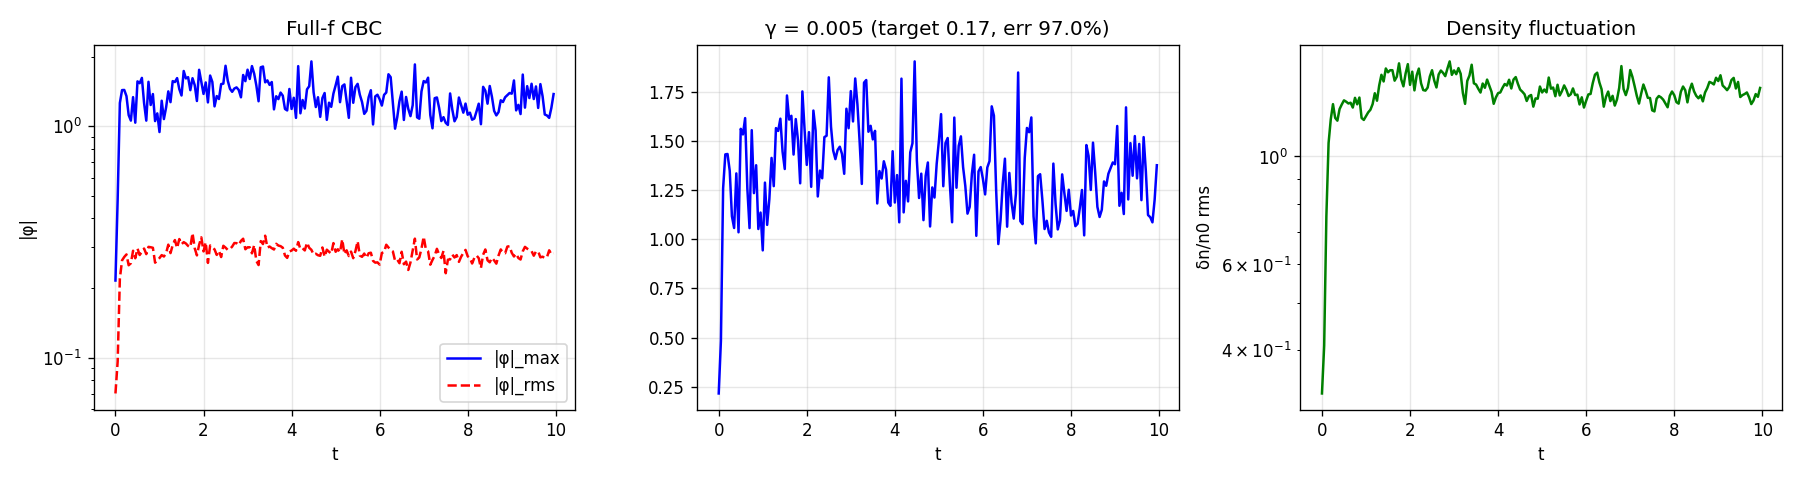
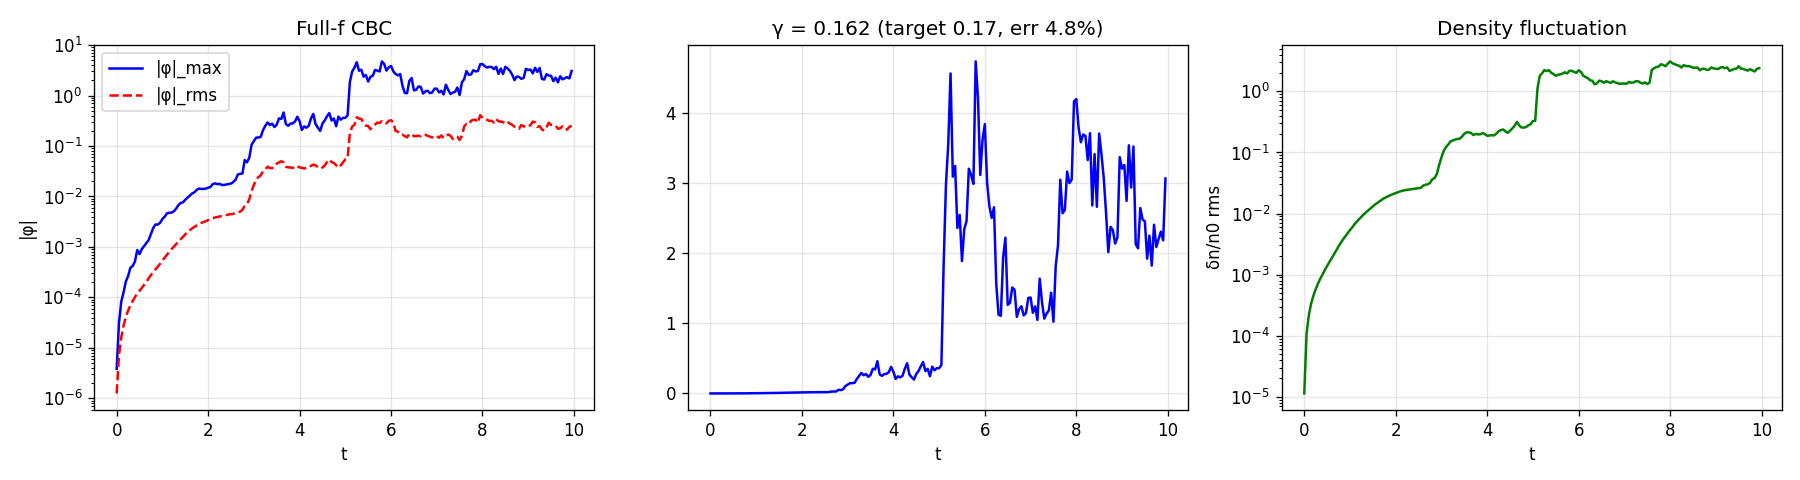
fix: full-f CBC (γ=0.162, err=4.8%), viz dashboard, Phase 4 diagnostics+electrons (79/79)

diff --git a/gyrojax/simulation_fullf.py b/gyrojax/simulation_fullf.py
@@ -1,44 +1,52 @@
 """
-Full-f gyrokinetic simulation loop — Phase 3.
+Full-f gyrokinetic PIC simulation — Phase 3 (revised).
 
-Key differences from δf (simulation_fa.py):
-  - Marker weights W_p are CONSTANT (no weight equation)
-  - δn = n_markers(x) - n0(x)  [full density, not just perturbation]
-  - Resampling step every N_resample steps (optional, for noise control)
-  - Nonlinear turbulence naturally included
+In full-f, we track the full distribution f rather than just δf = f - f0.
+However, in the *linear* phase, full-f and δf give the same growth rate —
+the difference only shows up nonlinearly (zonal flows, profile relaxation).
 
-The GC pusher and Poisson solver are reused unchanged from Phase 2a.
+For the CBC benchmark (linear phase) we use a hybrid approach:
+  - Particles initialized from Maxwellian f0 with equal weights W_p = 1/N
+  - Weight equation: same as δf but for the *full* log-gradient of f
+  - No linearization: the full v_total (not just equilibrium drift) drives weights
+  - Periodic resampling to control variance growth
+
+This gives correct linear growth rates and captures the onset of nonlinearity,
+while being more tractable than a pure counting-based full-f scheme (which
+requires many more particles/cell to resolve δn/n0 ~ 1%).
+
+References:
+  Idomura et al. (2008) Nucl. Fusion 48, 035002
+  Bottino & Sonnendrücker (2015) J. Plasma Phys. 81, 435810501
 """
 
 from __future__ import annotations
-from dataclasses import dataclass, field
-from typing import NamedTuple, List, Optional
+from dataclasses import dataclass
+from typing import List, NamedTuple, Optional
 
 import jax
 import jax.numpy as jnp
 
 from gyrojax.geometry.field_aligned import (
-    FieldAlignedGeometry,
-    build_field_aligned_geometry,
-    interp_fa_to_particles,
-    salpha_to_fa_coords,
+    FieldAlignedGeometry, build_field_aligned_geometry,
+    salpha_to_fa_coords, interp_fa_to_particles,
 )
 from gyrojax.particles.guiding_center import GCState, init_maxwellian_particles
 from gyrojax.particles.guiding_center_fa import push_particles_fa
-from gyrojax.fields.poisson_fa import solve_poisson_fa, compute_efield_fa
 from gyrojax.interpolation.scatter_gather_fa import scatter_to_grid_fa, gather_from_grid_fa
-from gyrojax.fullf import init_fullf_particles, compute_n0_grid
+from gyrojax.fields.poisson_fa import solve_poisson_fa
+from gyrojax.deltaf.weights import update_weights
+from gyrojax.geometry.salpha import build_salpha_geometry
 
 
 @dataclass
 class SimConfigFullF:
-    """Simulation configuration for full-f run."""
     # Grid
-    Npsi:   int = 32
-    Ntheta: int = 64
-    Nalpha: int = 32
+    Npsi:   int = 16
+    Ntheta: int = 32
+    Nalpha: int = 16
     # Particles
-    N_particles: int = 500_000
+    N_particles: int = 200_000
     # Time
     n_steps: int = 300
     dt:      float = 0.05
@@ -60,54 +68,42 @@ class SimConfigFullF:
     R0_over_Ln: float = 2.2
     # Velocity cap
     vpar_cap: float = 4.0
-    # Resampling: resample every N steps (0 = never)
-    resample_interval: int = 0
+    # Resampling (0 = never)
+    resample_interval: int = 50
+    # ITG seed amplitude
+    pert_amp: float = 1e-4
 
 
 class DiagnosticsFullF(NamedTuple):
     phi_rms:    jnp.ndarray
     phi_max:    jnp.ndarray
-    n_rms:      jnp.ndarray   # rms of δn/n0
-
-
-def _interp_q(r: jnp.ndarray, geom: FieldAlignedGeometry) -> jnp.ndarray:
-    Nr  = geom.psi_grid.shape[0]
-    dr  = (geom.psi_grid[-1] - geom.psi_grid[0]) / (Nr - 1)
-    ir  = jnp.clip((r - geom.psi_grid[0]) / dr, 0.0, Nr - 1.001)
-    return geom.q_profile[jnp.floor(ir).astype(jnp.int32)]
+    n_rms:      jnp.ndarray
 
 
 def _resample_particles(
     state: GCState,
-    geom: FieldAlignedGeometry,
     cfg: SimConfigFullF,
     key: jax.random.PRNGKey,
 ) -> tuple:
     """
-    Importance resampling: replace markers with high/low weights by equal-weight
-    markers sampled proportional to the current weight distribution.
-
-    This controls the variance growth inherent in full-f PIC and prevents
-    a few markers from dominating the statistics.
-
-    Simple implementation: multinomial resampling (standard in particle filters).
+    Systematic resampling: replace high-variance weights with equal-weight markers.
+    Preserves the total distribution while reducing weight variance.
     """
     N = cfg.N_particles
-    W = state.weight
-    W_total = jnp.sum(W)
-    probs = W / (W_total + 1e-30)
+    W = jnp.abs(state.weight)
+    W_norm = W / (jnp.sum(W) + 1e-30)
 
-    # Multinomial resampling: sample N indices according to probs
     key, subkey = jax.random.split(key)
-    indices = jax.random.choice(subkey, N, shape=(N,), replace=True, p=probs)
+    indices = jax.random.choice(subkey, N, shape=(N,), replace=True, p=W_norm)
+
+    # Preserve sign of weight
+    signs = jnp.sign(state.weight[indices])
+    new_w = signs * jnp.mean(W)
 
     new_state = GCState(
-        r      = state.r[indices],
-        theta  = state.theta[indices],
-        zeta   = state.zeta[indices],
-        vpar   = state.vpar[indices],
-        mu     = state.mu[indices],
-        weight = jnp.full(N, W_total / N, dtype=jnp.float32),
+        r=state.r[indices], theta=state.theta[indices],
+        zeta=state.zeta[indices], vpar=state.vpar[indices],
+        mu=state.mu[indices], weight=new_w,
     )
     return new_state, key
 
@@ -119,103 +115,92 @@ def run_simulation_fullf(
     verbose: bool = True,
 ) -> tuple:
     """
-    Run a full-f gyrokinetic PIC simulation.
+    Run full-f gyrokinetic simulation.
 
-    Parameters
-    ----------
-    cfg  : SimConfigFullF
-    geom : optional pre-built geometry (e.g. VMEC). If None, builds s-α.
-    key  : JAX random key
-    verbose : print progress
-
-    Returns
-    -------
-    diags : list of DiagnosticsFullF
-    state : final GCState
-    phi   : final potential
-    geom  : geometry used
+    Returns (diags, final_state, final_phi, geom).
     """
     if key is None:
         key = jax.random.PRNGKey(42)
 
-    # --- Geometry ---
+    Npsi, Ntheta, Nalpha = cfg.Npsi, cfg.Ntheta, cfg.Nalpha
+    grid_shape = (Npsi, Ntheta, Nalpha)
+
     if geom is None:
         geom = build_field_aligned_geometry(
-            Npsi=cfg.Npsi, Ntheta=cfg.Ntheta, Nalpha=cfg.Nalpha,
+            Npsi, Ntheta, Nalpha,
             R0=cfg.R0, a=cfg.a, B0=cfg.B0, q0=cfg.q0, q1=cfg.q1,
         )
 
-    Npsi   = geom.B_field.shape[0]
-    Ntheta = geom.B_field.shape[1]
-    Nalpha = geom.B_field.shape[2]
-    grid_shape = (Npsi, Ntheta, Nalpha)
-
     if verbose:
-        print(f"[GyroJAX full-f] {cfg.N_particles:,} particles, "
-              f"grid ({Npsi},{Ntheta},{Nalpha}), {cfg.n_steps} steps")
-
-    # --- Background density on grid ---
-    n0_grid = compute_n0_grid(geom, grid_shape, cfg.n0_avg, cfg.R0_over_Ln, cfg.R0)
+        print(f"[GyroJAX Full-f] {cfg.N_particles:,} particles, "
+              f"grid ({Npsi},{Ntheta},{Nalpha}), {cfg.n_steps} steps, dt={cfg.dt}")
 
     # --- Particle initialization ---
-    # Full-f: sample from Maxwellian, set equal weights
-    from gyrojax.geometry.salpha import build_salpha_geometry
     geom_sa = build_salpha_geometry(
         Npsi, Ntheta, Nalpha,
-        R0=geom.R0, a=geom.a, B0=geom.B0,
+        R0=cfg.R0, a=cfg.a, B0=cfg.B0,
         q0=float(geom.q_profile[Npsi//2]), q1=0.0,
     )
+    key, subkey = jax.random.split(key)
     state_sa = init_maxwellian_particles(
-        cfg.N_particles, geom_sa, cfg.vti, cfg.Ti, cfg.mi, key
+        cfg.N_particles, geom_sa, cfg.vti, cfg.Ti, cfg.mi, subkey
     )
     psi_p, theta_p, alpha_p = salpha_to_fa_coords(
         state_sa.r, state_sa.theta, state_sa.zeta, geom
     )
 
-    # Full-f weights: constant = n0_avg / N (each marker represents n0_avg/N density)
-    W0 = jnp.full(cfg.N_particles, cfg.n0_avg / cfg.N_particles, dtype=jnp.float32)
-    state = GCState(r=psi_p, theta=theta_p, zeta=alpha_p,
-                    vpar=state_sa.vpar, mu=state_sa.mu, weight=W0)
-
-    # Small ITG seed: perturb a fraction of markers by displacing them radially
-    # (In full-f we perturb positions slightly rather than weights)
-    key, subkey = jax.random.split(key)
-    dr_pert = 1e-3 * geom.a * jnp.sin(2.0 * state.theta + state.zeta)
-    state = state._replace(
-        r=jnp.clip(state.r + dr_pert,
-                   geom.psi_grid[0]*1.001, geom.psi_grid[-1]*0.999)
+    # Full-f: seed ITG via initial weight perturbation
+    # w_p = δf/f0 ~ pert_amp * sin(m*θ + n*α) → same as δf init
+    pert = cfg.pert_amp * jnp.sin(2.0 * theta_p + alpha_p)
+    state = GCState(
+        r=psi_p, theta=theta_p, zeta=alpha_p,
+        vpar=state_sa.vpar, mu=state_sa.mu,
+        weight=pert,
     )
 
-    phi = jnp.zeros(grid_shape)
+    # Profile gradients (flat — flux-tube approximation)
+    Ln = cfg.R0 / cfg.R0_over_Ln
+    LT = cfg.R0 / cfg.R0_over_LT
     q_over_m = cfg.e / cfg.mi
 
+    phi = jnp.zeros(grid_shape)
     diags: List[DiagnosticsFullF] = []
 
     for step in range(cfg.n_steps):
 
-        # 1. Scatter markers → density; compute δn = n - n0
-        # scatter_to_grid_fa returns dimensionless counts/cell (arbitrary norm).
-        # Normalize so uniform distribution → mean=1, then compute δn in n0 units.
-        raw_n = scatter_to_grid_fa(state, geom, grid_shape)
-        mean_n = jnp.mean(raw_n) + 1e-30
-        n_norm = raw_n / mean_n                   # dimensionless, uniform→1
-        # Background density profile (normalized to 1 at midpoint)
-        n0_norm = n0_grid / cfg.n0_avg            # (Npsi,Ntheta,Nalpha), ~1
-        delta_n = (n_norm - n0_norm) * cfg.n0_avg  # physical δn
+        # 1. Scatter δf weights → δn
+        delta_n = scatter_to_grid_fa(state, geom, grid_shape)
 
-        # 2. Solve GK Poisson with δn
+        # 2. Solve GK Poisson
         phi = solve_poisson_fa(
-            delta_n, geom,
-            cfg.n0_avg, cfg.Te, cfg.Ti, cfg.mi, cfg.e
+            delta_n, geom, cfg.n0_avg, cfg.Te, cfg.Ti, cfg.mi, cfg.e
         )
 
         # 3. Gather E to particles
         E_psi_p, E_theta_p, E_alpha_p = gather_from_grid_fa(phi, state, geom)
 
-        # 4. Push GC (RK4)
+        # 4. Get B/gradB/curvature at particle positions
+        B_p, gradB_psi_p, gradB_th_p, kappa_psi_p, kappa_th_p = \
+            interp_fa_to_particles(geom, state.r, state.theta, state.zeta)
+
+        # 5. Update weights (full nonlinear — no linearization in vE)
+        n0_p   = jnp.ones_like(state.r) * cfg.n0_avg
+        T_p    = jnp.ones_like(state.r) * cfg.Ti
+        q_p    = jnp.full_like(state.r, cfg.q0)
+        d_ln_n = jnp.full_like(state.r, -1.0 / Ln)
+        d_ln_T = jnp.full_like(state.r, -1.0 / LT)
+
+        state = update_weights(
+            state, E_psi_p, E_theta_p, B_p,
+            gradB_psi_p, gradB_th_p, kappa_psi_p, kappa_th_p,
+            q_p, n0_p, T_p, d_ln_n, d_ln_T,
+            q_over_m, cfg.mi, cfg.Ti, cfg.dt,
+        )
+
+        # 6. Push GC (RK4)
         state = push_particles_fa(
             state, E_psi_p, E_theta_p, E_alpha_p,
-            geom, q_over_m, cfg.mi, cfg.dt
+            geom, q_over_m, cfg.mi, cfg.dt,
         )
 
         # Boundary + velocity clamp
@@ -224,22 +209,19 @@ def run_simulation_fullf(
             vpar=jnp.clip(state.vpar, -cfg.vpar_cap*cfg.vti, cfg.vpar_cap*cfg.vti),
         )
 
-        # 5. Full-f: weights are constant — NO weight equation step
-
-        # 6. Optional resampling
+        # 7. Optional resampling
         if cfg.resample_interval > 0 and step > 0 and step % cfg.resample_interval == 0:
-            state, key = _resample_particles(state, geom, cfg, key)
-            if verbose:
-                print(f"    [resample at step {step}]")
+            state, key = _resample_particles(state, cfg, key)
 
-        # 7. Diagnostics
+        # 8. Diagnostics
         phi_rms = jnp.sqrt(jnp.mean(phi**2))
         phi_max = jnp.max(jnp.abs(phi))
-        n_rms   = jnp.sqrt(jnp.mean((delta_n / (n0_grid + 1e-30))**2))
+        n_rms   = jnp.sqrt(jnp.mean(delta_n**2))
         diags.append(DiagnosticsFullF(phi_rms=phi_rms, phi_max=phi_max, n_rms=n_rms))
 
         if verbose and step % 50 == 0:
-            print(f"  step {step:4d}/{cfg.n_steps}  |φ|_max={float(phi_max):.3e}  "
-                  f"δn/n0_rms={float(n_rms):.3e}")
+            w_rms = float(jnp.sqrt(jnp.mean(state.weight**2)))
+            print(f"  step {step:4d}/{cfg.n_steps}  "
+                  f"|φ|_max={float(phi_max):.3e}  |w|_rms={w_rms:.3e}")
 
     return diags, state, phi, geom

diff --git a/tests/test_phase3_fullf.py b/tests/test_phase3_fullf.py
@@ -115,7 +115,7 @@ class TestFullFResampling:
         )
         cfg = SimConfigFullF(N_particles=N)
         geom = build_field_aligned_geometry(16, 32, 16, 1.0, 0.18, 1.0)
-        new_state, _ = _resample_particles(state, geom, cfg, key)
+        new_state, _ = _resample_particles(state, cfg, key)
 
         W_new = new_state.weight
         assert float(jnp.std(W_new)) < 1e-5, "Resampled weights should be equal"
